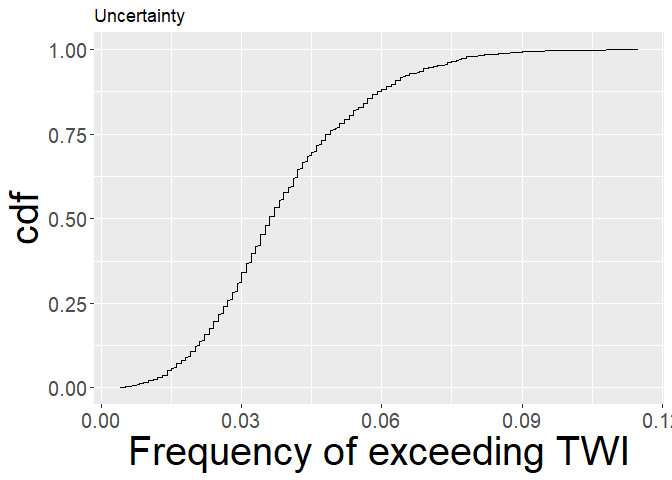
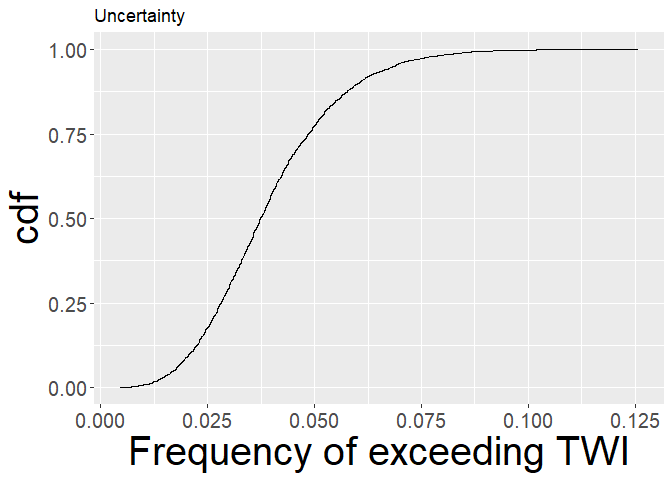
load updated files

diff --git a/README.md b/README.md
@@ -22,7 +22,7 @@ You can install the development version of `ppvsbp` from
 
 ## Example
 
-This examples does the aluminium exposure assessment by precise
+This example does the aluminium exposure assessment by precise
 probability.
 
 First, let us estimate the probability of exceeding the safety threshold
@@ -47,13 +47,13 @@ TWI_pp <- unc_analysis_assessment(niter_ale = 1000, niter_epi = 1000, threshold 
 str(TWI_pp)
 #> List of 6
 #>  $ prob_consumption_event  :List of 7
-#>   ..$ : num 0.15
-#>   ..$ : num 0.655
-#>   ..$ : num 0.213
-#>   ..$ : num 0.118
+#>   ..$ : num 0.135
+#>   ..$ : num 0.641
+#>   ..$ : num 0.249
+#>   ..$ : num 0.126
 #>   ..$ : num 0.271
-#>   ..$ : num 0.477
-#>   ..$ : num 0.291
+#>   ..$ : num 0.502
+#>   ..$ : num 0.303
 #>  $ parameters_concentration:List of 7
 #>   ..$ :List of 2
 #>   .. ..$ prior    :List of 4
@@ -210,20 +210,20 @@ str(TWI_pp)
 #>   .. .. ..$ v    : num 226
 #>   .. .. ..$ alpha: num 112
 #>   .. .. ..$ beta : num 184
-#>  $ prob_exceed             : num [1:1000] 0.026 0.057 0.027 0.027 0.051 0.034 0.005 0.03 0.024 0.027 ...
-#>  $ expected_prob_exceed    : num 0.039
-#>  $ hdi_prob_exceed         : Named num [1:2] 0.008 0.074
+#>  $ prob_exceed             : num [1:1000] 0.042 0.035 0.091 0.034 0.024 0.029 0.026 0.02 0.026 0.033 ...
+#>  $ expected_prob_exceed    : num 0.0392
+#>  $ hdi_prob_exceed         : Named num [1:2] 0.012 0.073
 #>   ..- attr(*, "names")= chr [1:2] "lower" "upper"
 #>   ..- attr(*, "credMass")= num 0.95
 
 ## Expected probability of exceeding the safety threshold
 TWI_pp$expected_prob_exceed
-#> [1] 0.039002
+#> [1] 0.039249
 
 ## Highest posterior density interval of the probability of exceeding the safety threshold
 TWI_pp$hdi_prob_exceed
 #> lower upper 
-#> 0.008 0.074 
+#> 0.012 0.073 
 #> attr(,"credMass")
 #> [1] 0.95
 ```
@@ -250,13 +250,13 @@ has changed `percentile_ale = 95`.
 str(TWI_pp_high_consumer)
 #> List of 6
 #>  $ prob_consumption_event  :List of 7
-#>   ..$ : num 0.169
-#>   ..$ : num 0.652
-#>   ..$ : num 0.226
-#>   ..$ : num 0.134
-#>   ..$ : num 0.279
-#>   ..$ : num 0.509
-#>   ..$ : num 0.278
+#>   ..$ : num 0.176
+#>   ..$ : num 0.683
+#>   ..$ : num 0.249
+#>   ..$ : num 0.117
+#>   ..$ : num 0.281
+#>   ..$ : num 0.466
+#>   ..$ : num 0.325
 #>  $ parameters_concentration:List of 7
 #>   ..$ :List of 2
 #>   .. ..$ prior    :List of 4
@@ -413,20 +413,20 @@ str(TWI_pp_high_consumer)
 #>   .. .. ..$ v    : num 226
 #>   .. .. ..$ alpha: num 112
 #>   .. .. ..$ beta : num 184
-#>  $ prob_exceed             : num [1:1000] 0.498 0.698 0.777 0.659 0.799 0.633 0.942 0.74 0.19 0.613 ...
-#>  $ expected_prob_exceed    : num 0.58
-#>  $ hdi_prob_exceed         : Named num [1:2] 0.254 0.933
+#>  $ prob_exceed             : num [1:1000] 0.614 0.528 0.479 0.896 0.511 0.62 0.494 0.414 0.586 0.165 ...
+#>  $ expected_prob_exceed    : num 0.574
+#>  $ hdi_prob_exceed         : Named num [1:2] 0.242 0.912
 #>   ..- attr(*, "names")= chr [1:2] "lower" "upper"
 #>   ..- attr(*, "credMass")= num 0.95
 
 ## Expected probability of exceeding the safety threshold
 TWI_pp_high_consumer$expected_prob_exceed
-#> [1] 0.580302
+#> [1] 0.573948
 
 ## Highest posterior density interval of the probability of exceeding the safety threshold
 TWI_pp_high_consumer$hdi_prob_exceed
 #> lower upper 
-#> 0.254 0.933 
+#> 0.242 0.912 
 #> attr(,"credMass")
 #> [1] 0.95
 ```
@@ -439,7 +439,7 @@ characterized by a full probability distribution
   graph_pp(prob_exceed = TWI_pp$prob_exceed)
 ```
 
-<img src="man/figures/README-unnamed-chunk-5-1.png" width="100%" />
+<img src="man/figures/README-fig1-1.png" width="70%" />
 
 ``` r
     
@@ -447,16 +447,143 @@ characterized by a full probability distribution
   graph_pp(prob_exceed = TWI_pp_high_consumer$prob_exceed)
 ```
 
-<img src="man/figures/README-unnamed-chunk-5-2.png" width="100%" />
+<img src="man/figures/README-fig1-2.png" width="70%" />
 
 ``` r
     
  ## both graphs
-   # graph_pp_both(prob_exceed_all = TWI_pp$prob_exceed, 
-   #                prob_exceed_high_consumer = TWI_pp_high_consumer$prob_exceed)
+    graph_pp_both(prob_exceed_all = TWI_pp$prob_exceed, 
+                   prob_exceed_high_consumer = TWI_pp_high_consumer$prob_exceed)
 ```
+
+<img src="man/figures/README-fig1-3.png" width="70%" />
 
 Now, let us estimate the probability of exceeding the safety threshold
 by bounded probability.
 
 First, let us consider all children
+
+``` r
+  ## All children
+  lower_bound_prob <- bound_prob_exceed_bp(obj_func_bp = obj_func_bp, maximize = FALSE, 
+                                            lower_parameters  = c(1, -5, -20), 
+                                            upper_parameters  = c(6, 1, -10),
+                                            niter_ale = 1000, niter_epi = 1000, threshold = 1, percentile_ale = NULL,
+                                            suff_stat_concentration = data_assessment$log_concentration_ss_data,
+                                            suff_stat_consumption = data_assessment$log_consumption_ss_data,
+                                            consumption_change_vals_EKE = c(-15, 7.5), 
+                                            consumption_change_probs_EKE = c(0.25, 0.75),
+                                            consumers_info_sample_size = data_assessment$consumers_info_sample_size,
+                                            concentration_mu0 = 2.75,
+                                            concentration_v0 = 5, concentration_alpha0 = 1, concentration_beta0 = 1, 
+                                            sufficient_statistics_concentration = TRUE,
+                                            consumption_mu0 = -2.5,
+                                            consumption_v0 = 5, consumption_alpha0 = 1, consumption_beta0 = 1, 
+                                            sufficient_statistics_consumption = TRUE,
+                                            consumption_event_alpha0 = 1, consumption_event_beta0 = 1)
+  
+
+  
+  ## All children
+  upper_bound_prob <- bound_prob_exceed_bp(obj_func_bp = obj_func_bp, maximize = TRUE, 
+                                           lower_parameters  = c(1, -5, -20), 
+                                           upper_parameters  = c(6, 1, -10),
+                                           niter_ale = 1000, niter_epi = 1000, threshold = 1, 
+                                           percentile_ale = NULL,
+                                           suff_stat_concentration = data_assessment$log_concentration_ss_data,
+                                           suff_stat_consumption = data_assessment$log_consumption_ss_data,
+                                           consumption_change_vals_EKE = c(-15, 7.5), 
+                                           consumption_change_probs_EKE = c(0.25, 0.75),
+                                           consumers_info_sample_size = data_assessment$consumers_info_sample_size,
+                                           concentration_mu0 = 2.75,
+                                           concentration_v0 = 5, concentration_alpha0 = 1, concentration_beta0 = 1, 
+                                           sufficient_statistics_concentration = TRUE,
+                                           consumption_mu0 = -2.5,
+                                           consumption_v0 = 5, consumption_alpha0 = 1, consumption_beta0 = 1, 
+                                           sufficient_statistics_consumption = TRUE,
+                                           consumption_event_alpha0 = 1, consumption_event_beta0 = 1)
+  
+```
+
+Now, let us consider a high consumer child
+
+``` r
+  ## A high consumer child
+  lower_bound_high_consumer <- bound_prob_exceed_bp(obj_func_bp = obj_func_bp, maximize = FALSE, 
+                                                   lower_parameters  = c(1, -5, -20), 
+                                                   upper_parameters  = c(6, 1, -10),
+                                                   niter_ale = 1000, niter_epi = 1000, threshold = 1, 
+                                                   percentile_ale = 95,
+                                                   suff_stat_concentration = data_assessment$log_concentration_ss_data,
+                                                   suff_stat_consumption = data_assessment$log_consumption_ss_data,
+                                                   consumption_change_vals_EKE = c(-15, 7.5), 
+                                                   consumption_change_probs_EKE = c(0.25, 0.75),
+                                                   consumers_info_sample_size = data_assessment$consumers_info_sample_size,
+                                                   concentration_mu0 = 2.75,
+                                                   concentration_v0 = 5, concentration_alpha0 = 1, 
+                                                   concentration_beta0 = 1, 
+                                                   sufficient_statistics_concentration = TRUE,
+                                                   consumption_mu0 = -2.5,
+                                                   consumption_v0 = 5, consumption_alpha0 = 1, consumption_beta0 = 1, 
+                                                   sufficient_statistics_consumption = TRUE,
+                                                   consumption_event_alpha0 = 1, consumption_event_beta0 = 1)
+  
+  
+  
+   ## A high consumer child
+  upper_bound_high_consumer <- bound_prob_exceed_bp(obj_func_bp = obj_func_bp, maximize = TRUE, 
+                                                    lower_parameters  = c(1, -5, -20), 
+                                                    upper_parameters  = c(6, 1, -10),
+                                                    niter_ale = 1000, niter_epi = 1000, threshold = 1, 
+                                                    percentile_ale = 95,
+                                                    suff_stat_concentration = data_assessment$log_concentration_ss_data,
+                                                    suff_stat_consumption = data_assessment$log_consumption_ss_data,
+                                                    consumption_change_vals_EKE = c(-15, 7.5), 
+                                                    consumption_change_probs_EKE = c(0.25, 0.75),
+                                                    consumers_info_sample_size = data_assessment$consumers_info_sample_size,
+                                                    concentration_mu0 = 2.75,
+                                                    concentration_v0 = 5, concentration_alpha0 = 1, 
+                                                    concentration_beta0 = 1, 
+                                                    sufficient_statistics_concentration = TRUE,
+                                                    consumption_mu0 = -2.5,
+                                                    consumption_v0 = 5, consumption_alpha0 = 1, consumption_beta0 = 1, 
+                                                    sufficient_statistics_consumption = TRUE,
+                                                    consumption_event_alpha0 = 1, consumption_event_beta0 = 1)
+  
+```
+
+We can visualize the results individualy or together. In this case,
+epistemic uncertainty has been characterized by a p-box.
+
+Individual figures
+
+``` r
+ ## All children
+ graph_bp(lower_points = lower_bound_prob$opt_prob$prob_exceed, 
+          upper_points = upper_bound_prob$opt_prob$prob_exceed)
+```
+
+<img src="man/figures/README-fig2-1.png" width="70%" />
+
+``` r
+    
+ ## A high consumer child
+ graph_bp(lower_points = lower_bound_high_consumer$opt_prob$prob_exceed, 
+          upper_points = upper_bound_high_consumer$opt_prob$prob_exceed)
+```
+
+<img src="man/figures/README-fig2-2.png" width="70%" />
+
+Both figures together
+
+``` r
+ ## Both graphs
+  graph_bp_both(lower_points_all = lower_bound_prob$opt_prob$prob_exceed, 
+                upper_points_all = upper_bound_prob$opt_prob$prob_exceed,
+                lower_points_high_consumer = lower_bound_high_consumer$opt_prob$prob_exceed, 
+                upper_points_high_consumer = upper_bound_high_consumer$opt_prob$prob_exceed)
+```
+
+<img src="man/figures/README-fig3-1.png" width="70%" />
+
+End
